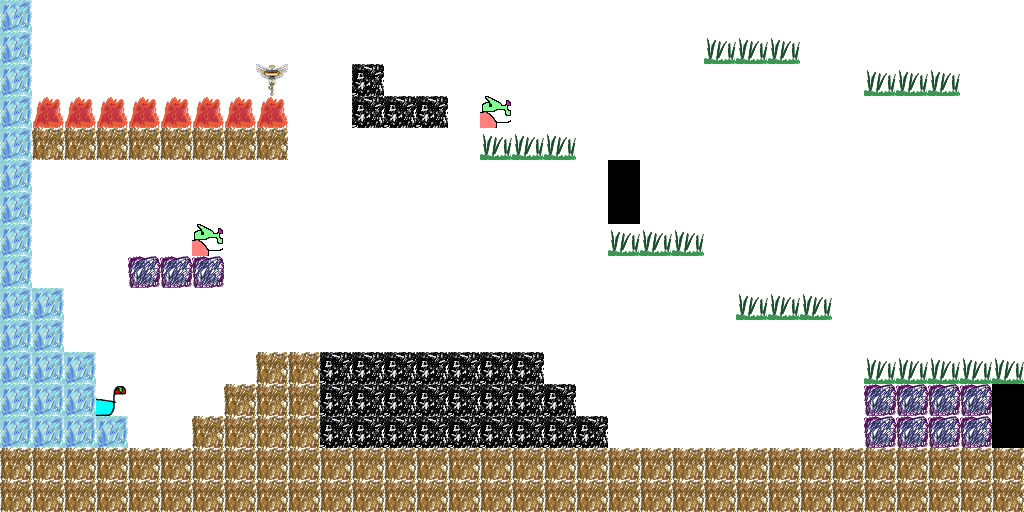
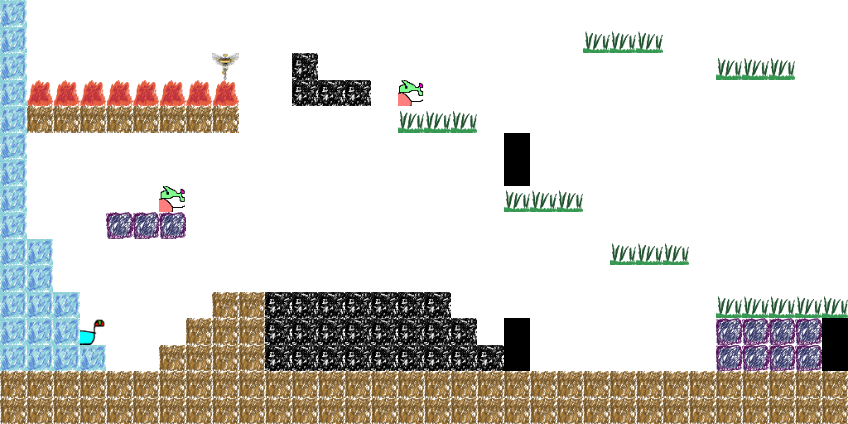
Added bob's town and updated requirements.txt

diff --git a/src/static/js/sketch.js b/src/static/js/sketch.js
@@ -35,7 +35,8 @@ let smoothedFrameRateEstimate = 60;
 let frameRateSmootherLambda = 0.01;
 
 let roomImage;
-let currentRoom = "levantersKeep";
+// let currentRoom = "levantersKeep";
+let currentRoom = "bobsTown_tutorial";
 let data;
 let roomTraits = {};
 let cameraSeeking = false, lost = false;
